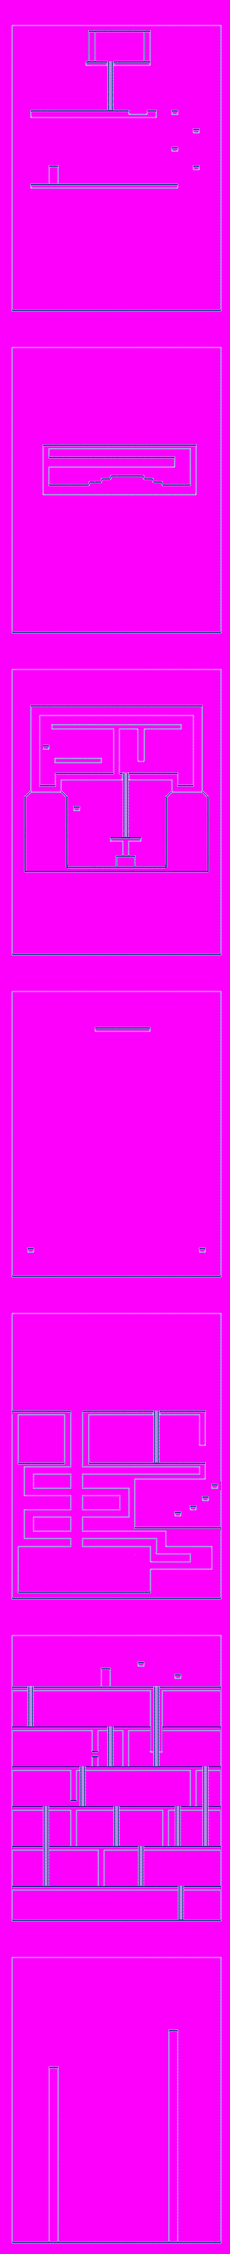
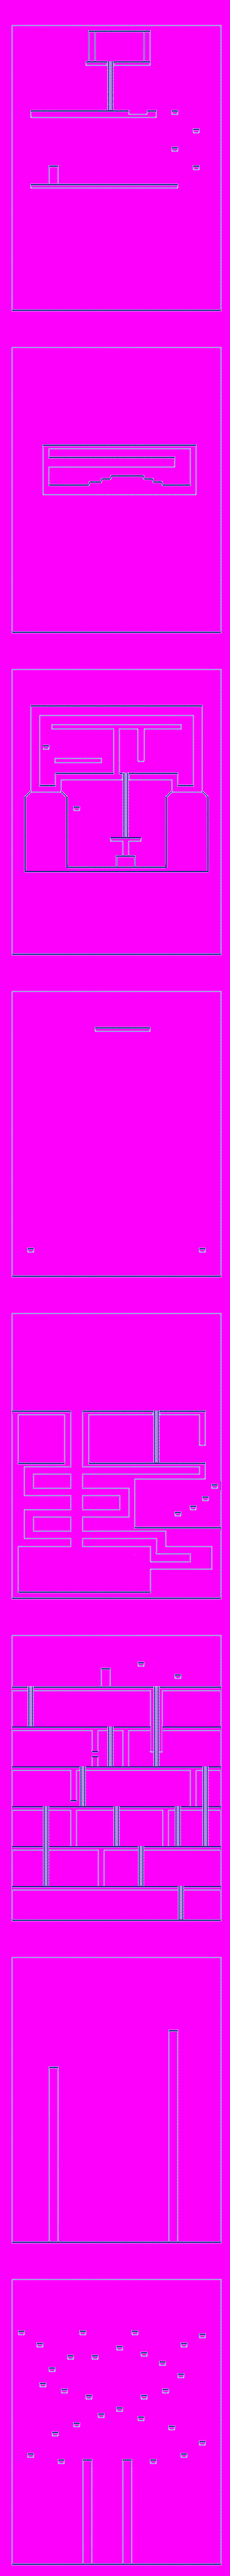
added level 8

diff --git a/source/level.cpp b/source/level.cpp
@@ -15,6 +15,7 @@
 #include "level_5_bin.h"
 #include "level_6_bin.h"
 #include "level_7_bin.h"
+#include "level_8_bin.h"
 //...
 
 #include "physical_object.hpp"
@@ -34,7 +35,7 @@ const void* get_level_map(u32 no)
 const u8* levels_bin[] = 
 {	NULL, 
 	level_1_bin, level_2_bin, level_3_bin, level_4_bin, level_5_bin, 
-	level_6_bin, level_7_bin 
+	level_6_bin, level_7_bin, level_8_bin
 };
 
 u32 choose_star_pos(const u8* level_map);
@@ -807,9 +808,13 @@ void Level::on_key_held(int keys)
 		else if(keys & KEY_UP)  
 		{
 			int upper = get_block_data((int)(xfocus->pos_x),(int)xfocus->pos_y-1);		
-			if(upper==2)
-			{			
-				xfocus->move(0,-1);
+			int more_upper = get_block_data((int)(xfocus->pos_x),(int)xfocus->pos_y-9);			
+			int more_more_upper = get_block_data((int)(xfocus->pos_x),(int)xfocus->pos_y-17);			
+			
+			if(upper==2 && more_upper!=1)
+			{							
+				if(xfocus==cat || (xfocus==player && more_more_upper!=1))
+					xfocus->move(0,-1);
 			}
 		}
 		
@@ -1101,7 +1106,7 @@ const s8 dx[] = {-1,0,1,0};
 const s8 dy[] = { 0,-1,0,1};
 
 u8 _L[105][75];
-u16 _S[2500];
+u16 _S[3000];
 u16 _l;
 
 u32 choose_star_pos(const u8* level_map)
@@ -1147,7 +1152,7 @@ u32 choose_star_pos(const u8* level_map)
 			{
 				_L[ny][nx]=0x80;
 				_S[_l++]=(nx<<8)|ny;
-				if(_l>2500) fatal("Stack overflow");
+				if(_l>3000) fatal("Stack overflow");
 			}
 		}
 	}
